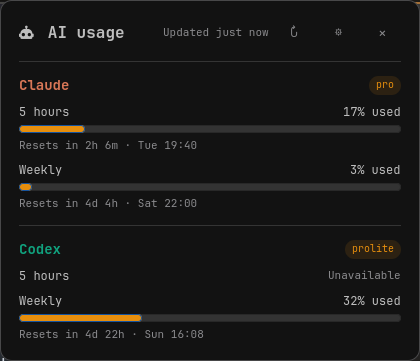
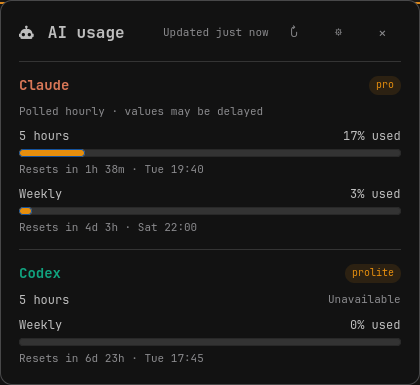
Poll Claude conservatively and honor backoff

diff --git a/tests/test_state.py b/tests/test_state.py
@@ -35,6 +35,28 @@ class UsageStateTests(unittest.TestCase):
                 self.assertEqual(usage.read_settings(), chosen)
                 self.assertEqual(os.stat(settings_file).st_mode & 0o777, 0o600)
 
+    def test_fetch_claude_parses_numeric_and_http_date_retry_after(self):
+        cases = [
+            ("2915", 2_915),
+            ("Thu, 01 Jan 1970 02:00:00 GMT", 6_200),
+        ]
+        credentials = {"claudeAiOauth": {"accessToken": "test-token"}}
+        for header, expected in cases:
+            with self.subTest(header=header):
+                response = usage.urllib.error.HTTPError(
+                    usage.CLAUDE_USAGE_URL,
+                    429,
+                    "rate limited",
+                    {"Retry-After": header},
+                    None,
+                )
+                with patch.object(usage, "read_json", return_value=credentials), patch.object(
+                    usage.urllib.request, "urlopen", side_effect=response
+                ), patch.object(usage.time, "time", return_value=1_000):
+                    with self.assertRaises(usage.UsageRateLimitError) as raised:
+                        usage.fetch_claude()
+                self.assertEqual(raised.exception.retry_after, expected)
+
     def test_compact_provider_options_are_independent(self):
         provider = {
             "windows": {
@@ -58,6 +80,62 @@ class UsageStateTests(unittest.TestCase):
             "windows": {"weekly": {"usedPercent": percent}},
             **extra,
         }
+
+    @patch.object(usage.time, "time", return_value=10_000)
+    def test_refresh_cache_skips_claude_until_hourly_deadline(self, _time):
+        with tempfile.TemporaryDirectory() as temporary:
+            cache_dir = Path(temporary)
+            cache_file = cache_dir / "usage.json"
+            lock_file = cache_dir / "refresh.lock"
+            cache_file.write_text(json.dumps({
+                "attemptedAt": 9_000,
+                "providers": {
+                    "claude": self.provider(9_500, 10, nextRefreshAt=12_000),
+                    "codex": self.provider(9_000, 20, nextRefreshAt=9_500),
+                },
+            }))
+            refreshed_codex = self.provider(10_000, 21)
+            with patch.object(usage, "CACHE_DIR", cache_dir), patch.object(
+                usage, "CACHE_FILE", cache_file
+            ), patch.object(usage, "LOCK_FILE", lock_file), patch.object(
+                usage, "fetch_claude"
+            ) as claude, patch.object(
+                usage, "fetch_codex", return_value=refreshed_codex
+            ), patch.object(usage, "signal_waybar"):
+                data, changed = usage.refresh_cache()
+            self.assertTrue(changed)
+            claude.assert_not_called()
+            self.assertEqual(data["providers"]["claude"]["updatedAt"], 9_500)
+            self.assertEqual(data["providers"]["codex"]["windows"]["weekly"]["usedPercent"], 21)
+            self.assertEqual(data["providers"]["codex"]["nextRefreshAt"], 10_600)
+
+    @patch.object(usage.time, "time", return_value=10_000)
+    def test_claude_rate_limit_sets_hourly_backoff_without_discarding_cache(self, _time):
+        with tempfile.TemporaryDirectory() as temporary:
+            cache_dir = Path(temporary)
+            cache_file = cache_dir / "usage.json"
+            lock_file = cache_dir / "refresh.lock"
+            cache_file.write_text(json.dumps({
+                "attemptedAt": 9_000,
+                "providers": {
+                    "claude": self.provider(5_000, 10),
+                    "codex": self.provider(9_900, 20, nextRefreshAt=20_000),
+                },
+            }))
+            error = usage.UsageRateLimitError("Claude usage endpoint rate limited", 2_915)
+            with patch.object(usage, "CACHE_DIR", cache_dir), patch.object(
+                usage, "CACHE_FILE", cache_file
+            ), patch.object(usage, "LOCK_FILE", lock_file), patch.object(
+                usage, "fetch_claude", side_effect=error
+            ), patch.object(usage, "fetch_codex") as codex, patch.object(usage, "signal_waybar"):
+                data, _changed = usage.refresh_cache()
+            codex.assert_not_called()
+            claude = data["providers"]["claude"]
+            self.assertEqual(claude["windows"]["weekly"]["usedPercent"], 10)
+            self.assertTrue(claude["rateLimited"])
+            self.assertEqual(claude["nextRefreshAt"], 13_600)
+            self.assertNotIn("stale", claude)
+            self.assertEqual(usage.data_freshness_text(data), "Claude delayed · data 1h ago")
 
     @patch.object(usage.time, "time", return_value=10_000)
     def test_one_stale_provider_marks_whole_indicator_stale(self, _time):

diff --git a/README.md b/README.md
@@ -6,9 +6,9 @@ A native Waybar indicator and GTK4 layer-shell popup for live Claude and Codex q
 - Click-to-toggle popup centered below the clicked monitor’s bar
 - Claude and Codex 5-hour/weekly usage and reset countdowns
 - Theme colors loaded from the active Omarchy theme
-- Ten-minute cache with background refresh
+- Ten-minute Codex refresh and conservative hourly Claude refresh
 - Explicit stale and provider-error states
-- Right-click forced refresh with a notification
+- Right-click refresh of due providers with a notification
 
 ## Preview
 
@@ -92,7 +92,7 @@ waybar-ai-usage refresh --notify  # Refresh and show values in a notification
 ## Interaction
 
 - **Left click:** toggle popup
-- **Right click:** refresh and notify
+- **Right click:** refresh due providers and notify
 - **Gear button:** open display settings inside the popup
 - **Escape / close button:** dismiss popup
 
@@ -114,7 +114,7 @@ The exact module and styles installed by the script are available in [`waybar/mo
 
 ## Data sources
 
-Claude is read from Anthropic's OAuth usage endpoint. Codex is read from the official `codex app-server` JSON-RPC method `account/rateLimits/read`, the same live data source used for Codex status displays.
+Claude is read from Anthropic's OAuth usage endpoint. Because that endpoint is aggressively rate limited, Claude is polled no more than hourly and the popup clearly notes that its values may be delayed. HTTP `429 Retry-After` responses are persisted and honored. Codex refreshes every ten minutes through the official `codex app-server` JSON-RPC method `account/rateLimits/read`, the same live data source used for Codex status displays.
 
 ## Contributing
 

diff --git a/AGENTS.md b/AGENTS.md
@@ -40,9 +40,10 @@ Runtime state:
 
 ## Data behavior
 
-- Refresh live provider data at most every ten minutes unless the user manually refreshes.
+- Refresh Codex at most every ten minutes and Claude at most hourly, including manual refreshes.
+- Persist and honor Claude `Retry-After` backoff; never let manual refresh bypass it.
 - Provider collection runs concurrently.
-- Failed refreshes retain prior values and clearly mark them stale.
+- Failed refreshes retain prior values and clearly mark them stale or conservatively delayed.
 - Never label cached values as freshly updated after a failed refresh.
 - Keep percentage and reset time tied to the same selected quota window.
 - The Waybar output and settings preview must use the same renderer.